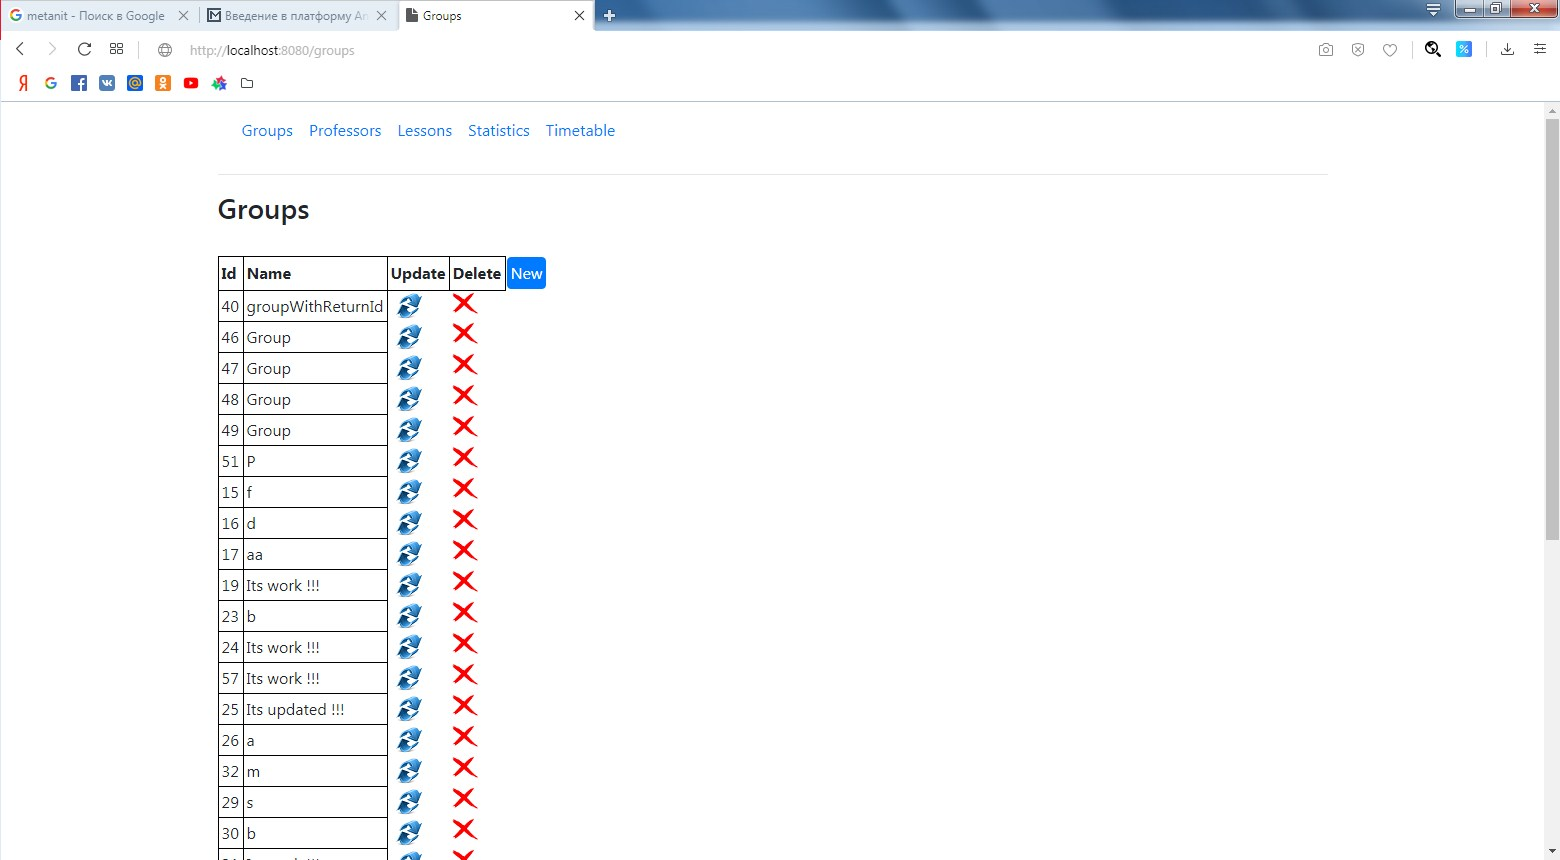
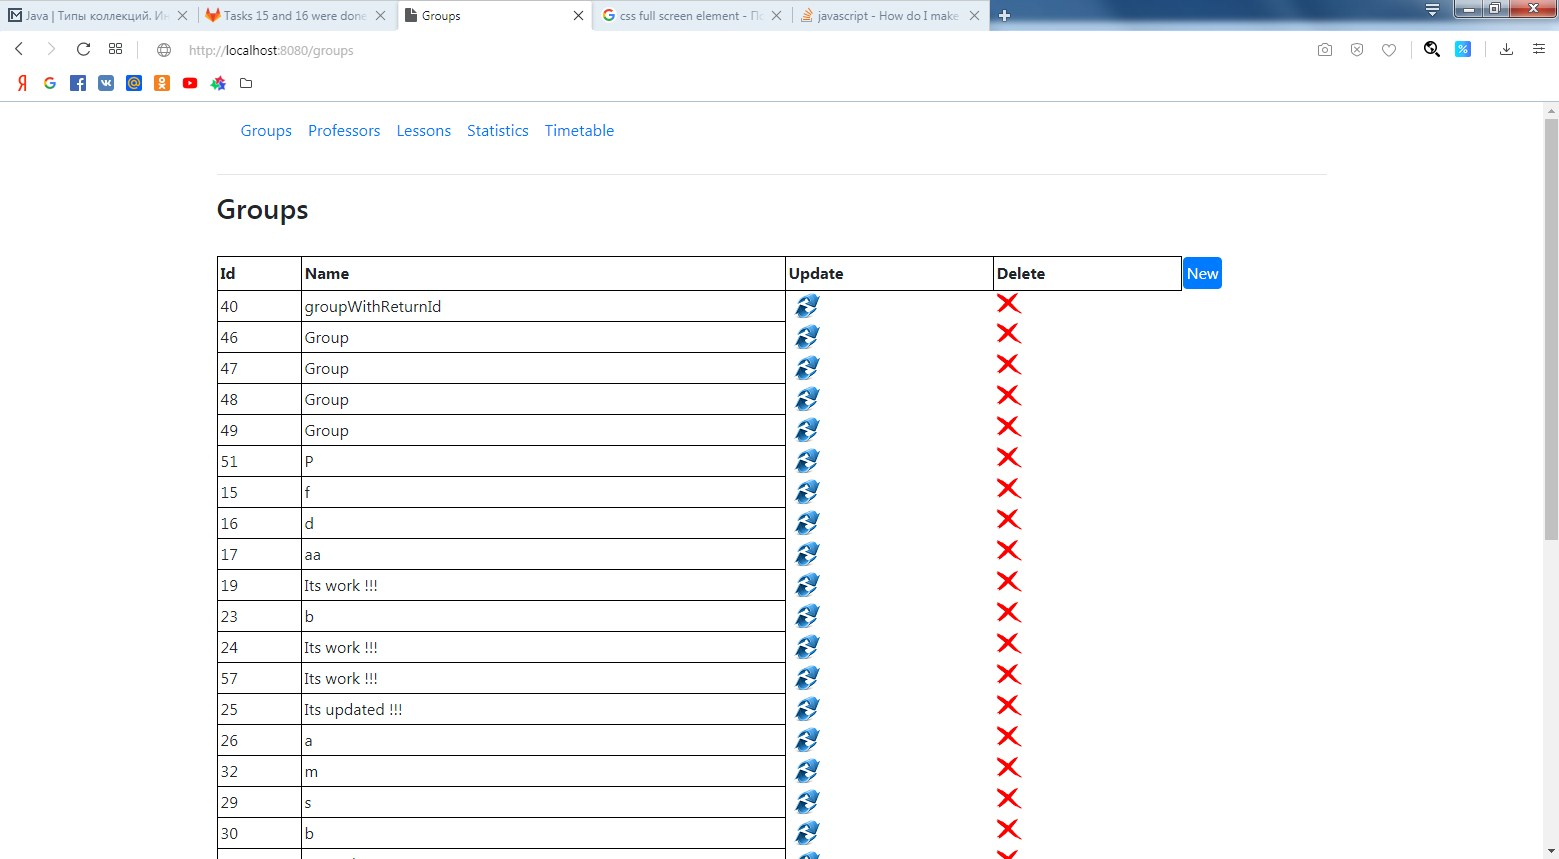
Some changes in view layer

diff --git a/src/main/webapp/scripts/timetable.js b/src/main/webapp/scripts/timetable.js
@@ -11,13 +11,33 @@ function getGroupTimetable() {
             },
             success: function (data) {
                 var lessons = data
-                    , body = '';
+                    , body =
+                    '<br>' +
+                    '<tr>' +
+                    '<th class="table-cell">Id</th>' +
+                    '<th class="table-cell">Date</th>' +
+                    '<th class="table-cell">Lesson Number</th>' +
+                    '<th class="table-cell">Group Id</th>' +
+                    '<th class="table-cell">Professor Id</th>' +
+                    '<th class="table-cell">Building</th>' +
+                    '<th class="table-cell">Classroom</th>' +
+                    '</tr>';
+
+                body = body + '<tr>';
 
                 for (name in lessons) {
-                    body = body + '<li>' + "***id: " + lessons[name].id + "***date: " + lessons[name].date +
-                        "***lessonNumber: " + lessons[name].lessonNumber + "***building: " + lessons[name].building +
-                        "***classroom: " + lessons[name].classroom + '</li>';
+                    body = body
+                        + '<td class="table-cell">' + lessons[name].id + '</td>'
+                        + '<td class="table-cell">' + lessons[name].date + '</td>'
+                        + '<td class="table-cell">' + lessons[name].lessonNumber + '</td>'
+                        + '<td class="table-cell">' + lessons[name].groupId + '</td>'
+                        + '<td class="table-cell">' + lessons[name].professorId + '</td>'
+                        + '<td class="table-cell">' + lessons[name].building + '</td>'
+                        + '<td class="table-cell">' + lessons[name].classroom + '</td>';
                 }
+
+                body = body + '</tr>';
+
                 $('#result').html(body);
             }
         });
@@ -38,13 +58,33 @@ function getProfessorTimetable() {
             },
             success: function (data) {
                 var lessons = data
-                    , body = '';
+                    , body =
+                    '<br>' +
+                    '<tr>' +
+                    '<th class="table-cell">Id</th>' +
+                    '<th class="table-cell">Date</th>' +
+                    '<th class="table-cell">Lesson Number</th>' +
+                    '<th class="table-cell">Group Id</th>' +
+                    '<th class="table-cell">Professor Id</th>' +
+                    '<th class="table-cell">Building</th>' +
+                    '<th class="table-cell">Classroom</th>' +
+                    '</tr>';
+
+                body = body + '<tr>';
 
                 for (name in lessons) {
-                    body = body + '<li>' + "id " + lessons[name].id + "date " + lessons[name].date +
-                        "lessonNumber" + lessons[name].lessonNumber + "building " + lessons[name].building +
-                        "classroom " + lessons[name].classroom + '</li>';
+                    body = body
+                        + '<td class="table-cell">' + lessons[name].id + '</td>'
+                        + '<td class="table-cell">' + lessons[name].date + '</td>'
+                        + '<td class="table-cell">' + lessons[name].lessonNumber + '</td>'
+                        + '<td class="table-cell">' + lessons[name].groupId + '</td>'
+                        + '<td class="table-cell">' + lessons[name].professorId + '</td>'
+                        + '<td class="table-cell">' + lessons[name].building + '</td>'
+                        + '<td class="table-cell">' + lessons[name].classroom + '</td>';
                 }
+
+                body = body + '</tr>';
+
                 $('#result').html(body);
             }
         });

diff --git a/src/main/webapp/pages/lessons.html b/src/main/webapp/pages/lessons.html
@@ -41,7 +41,7 @@
         <h3>Lessons</h3>
         <br>
         <div id="lessons">
-            <table>
+            <table id="lessons-table">
                 <tr>
                     <th class="table-cell">Id</th>
                     <th class="table-cell">Date</th>

diff --git a/src/main/webapp/pages/professors.html b/src/main/webapp/pages/professors.html
@@ -40,7 +40,7 @@
     <div id="professorsMainContent">
         <h3>Professors</h3>
         <br>
-        <table>
+        <table id="professors-table">
             <tr>
                 <th class="table-cell">Id</th>
                 <th class="table-cell">Name</th>

diff --git a/src/main/webapp/pages/groups.html b/src/main/webapp/pages/groups.html
@@ -41,7 +41,7 @@
     <div id="groupsMainContent">
         <h3>Groups</h3>
         <br>
-        <table>
+        <table id="groups-table">
             <tr>
                 <th class="table-cell">Id</th>
                 <th class="table-cell">Name</th>

diff --git a/src/main/webapp/pages/timetable.html b/src/main/webapp/pages/timetable.html
@@ -78,8 +78,8 @@
                            value="Get Timetable">
                 </form>
             </div>
-            <br>
-            <ul id="result"></ul>
+
+            <table id="result"></table>
         </div>
 
         <hr>

diff --git a/src/main/webapp/styles/timetable.css b/src/main/webapp/styles/timetable.css
@@ -1,3 +1,13 @@
 li {
     font-size: 150%;
 }
+
+.table-cell {
+    padding: 3px;
+    border: 1px solid black;
+}
+
+#result {
+    width: 100%;
+    height: 100%;
+}

diff --git a/src/main/webapp/styles/professors.css b/src/main/webapp/styles/professors.css
@@ -6,3 +6,8 @@
     padding: 3px;
     border: 1px solid black;
 }
+
+#professors-table {
+    width: 100%;
+    height: 100%;
+}

diff --git a/src/main/webapp/styles/lessons.css b/src/main/webapp/styles/lessons.css
@@ -6,3 +6,8 @@
     padding: 3px;
     border: 1px solid black;
 }
+
+#lessons-table {
+    width: 100%;
+    height: 100%;
+}

diff --git a/src/main/webapp/styles/groups.css b/src/main/webapp/styles/groups.css
@@ -6,3 +6,8 @@
     padding: 3px;
     border: 1px solid black;
 }
+
+#groups-table {
+    width: 100%;
+    height: 100%;
+}

diff --git a/src/test/java/com/foxminded/universitytimetable/controllers/LessonControllerTest.java b/src/test/java/com/foxminded/universitytimetable/controllers/LessonControllerTest.java
@@ -204,7 +204,7 @@ class LessonControllerTest {
 
     // Single running test
     @Test
-    void updateHaveToRedirectToLessons() throws Exception {
+    void updateHaveToRedirectToLessonsPage() throws Exception {
         mockMvc.perform(post("/lessons/update")
                 .param("date", String.valueOf(lesson.getDate()))
                 .param("lessonNumber", String.valueOf(lesson.getLessonNumber()))
@@ -258,7 +258,7 @@ class LessonControllerTest {
 
     // Single running test
     @Test
-    void removeHaveToRemove() throws Exception {
+    void removeHaveToRemoveLessonWithInputId() throws Exception {
         mockMvc.perform(post("/groups/add")
                 .param("id", "1")
                 .param("newName", "updatedGroup"));

diff --git a/src/test/java/com/foxminded/universitytimetable/controllers/ProfessorControllerTest.java b/src/test/java/com/foxminded/universitytimetable/controllers/ProfessorControllerTest.java
@@ -189,7 +189,7 @@ class ProfessorControllerTest {
     }
 
     @Test
-    void removeHaveToReturnRedirectToProfessors() throws Exception {
+    void removeHaveToReturnRedirectToProfessorsPage() throws Exception {
         mockMvc.perform(post("/professors/remove")
                 .param("id", "1"))
                 .andExpect(redirectedUrl("/professors"));
@@ -204,7 +204,7 @@ class ProfessorControllerTest {
 
     // Single running test
     @Test
-    void removeHaveToRemove() throws Exception {
+    void removeHaveToRemoveProfessorWithInputId() throws Exception {
         mockMvc.perform(post("/professors/add")
                 .param("newName", professor.getName())
                 .param("newSurname", professor.getSurname())

diff --git a/src/main/java/com/foxminded/universitytimetable/configurations/SpringJDBCConfig.java b/src/main/java/com/foxminded/universitytimetable/configurations/SpringJDBCConfig.java
@@ -51,7 +51,7 @@ public class SpringJDBCConfig {
     }
 
     @Bean
-    public DataSource postgreSQLDataSourceFromJndi() {
+    public DataSource postgreSQLDataSourceFromJndi() throws NamingException {
         DataSource dataSource = null;
         JndiTemplate jndi = new JndiTemplate();
 
@@ -59,6 +59,7 @@ public class SpringJDBCConfig {
             dataSource = jndi.lookup("java:comp/env/jdbc/MyLocalDB", DataSource.class);
         } catch (NamingException e) {
             LOGGER.error("Try to get DataSource for PostgreSQL from JNDI was failed");
+            throw e;
         }
 
         return dataSource;
